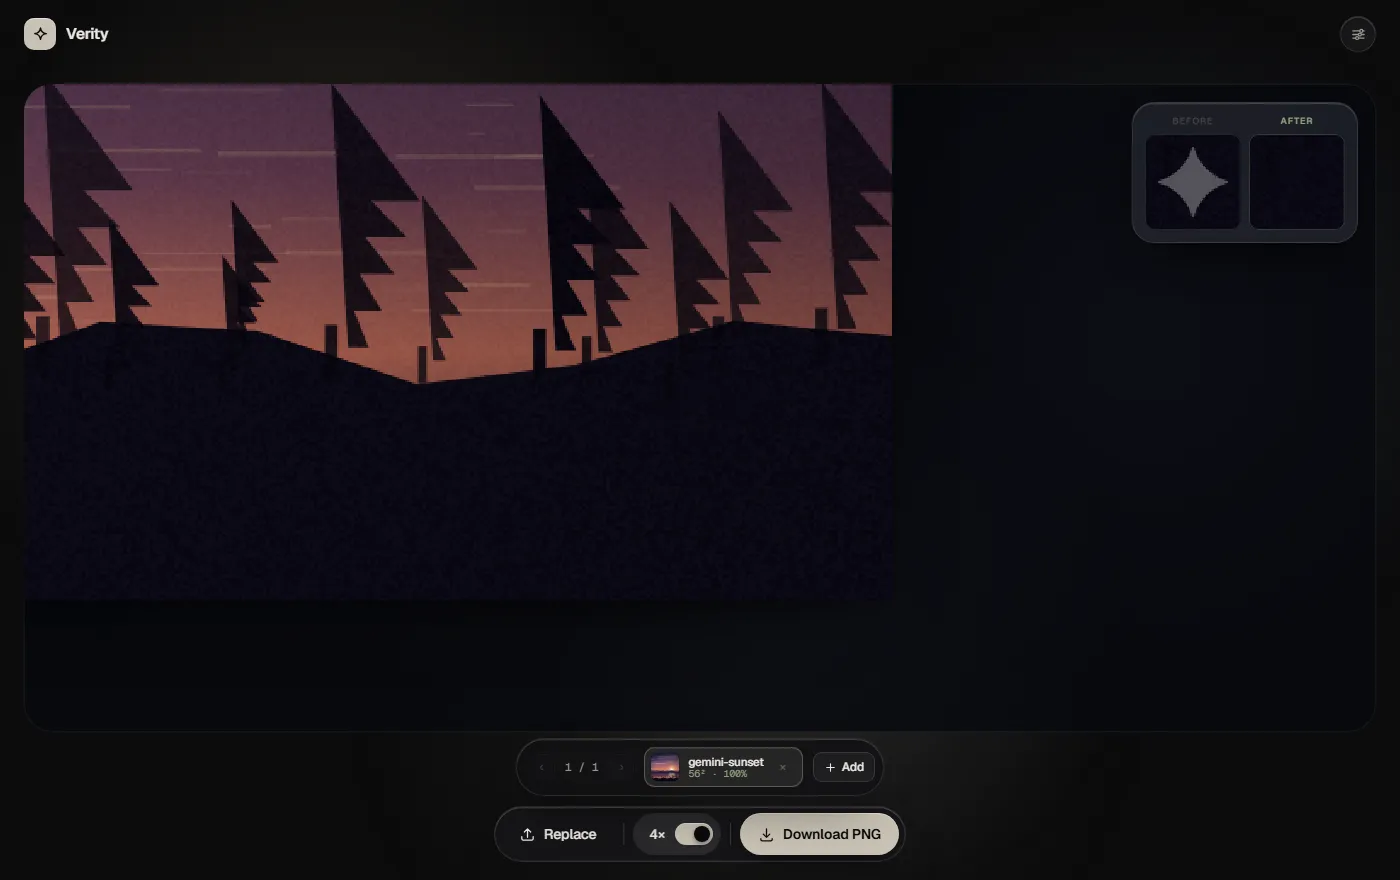
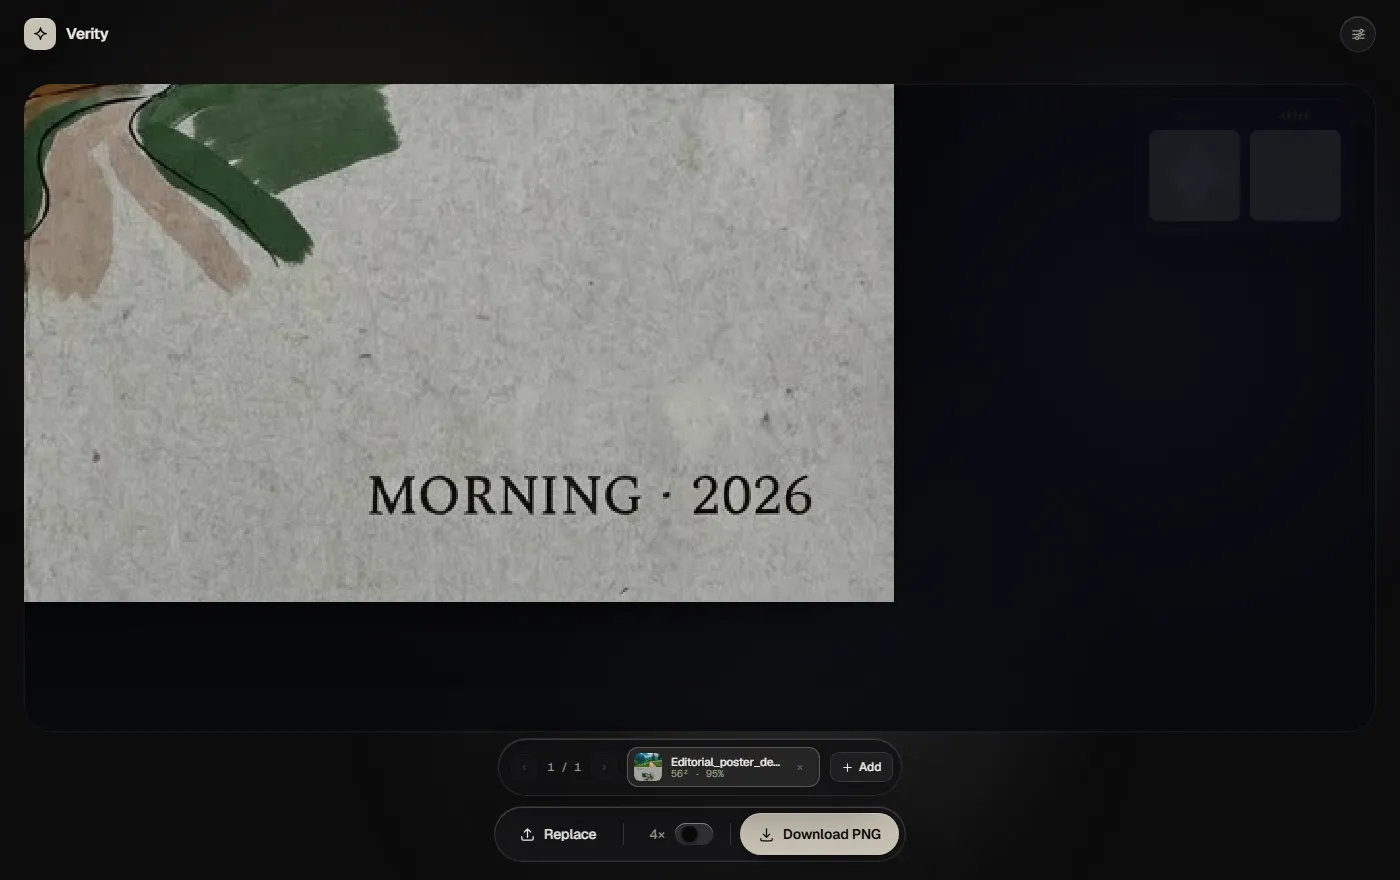
README: real Gemini screenshots — hero, 4x proof on the poster, batch of 6, mobile

diff --git a/README.md b/README.md
@@ -1,6 +1,8 @@
 <div align="center">
-  <img src="docs/hero.webp" alt="Verity — Lossless Gemini Watermark Remover" width="880" />
+  <img src="docs/hero.webp" alt="Verity restoring a real Gemini-generated image — the corner watermark is gone" width="880" />
 </div>
+
+<p align="center"><sub>A real Gemini export (1376×768), restored in the browser. The ✦ in the bottom-right corner is gone — and nothing else moved.</sub></p>
 
 <h1 align="center">Verity</h1>
 <p align="center">
@@ -69,13 +71,25 @@ The 4× loupe is the engine's own before/after inspector. Turn it on with the
   <img src="docs/before-after.webp" alt="4x loupe showing the Gemini sparkle in Before and a clean corner in After" width="880" />
 </div>
 
-<p align="center"><sub>Left: the ✦ before restoration. Right: the same pixels after — no smear, no blur, no crop.</sub></p>
+<p align="center"><sub>A real Gemini poster export. Left: the ✦ sitting directly on top of the concrete grain and the type. Right: the same pixels after restoration — the texture is intact and <em>MORNING · 2026</em> is still perfectly legible. An inpainting model would have turned that whole corner into mush.</sub></p>
+
+### Bulk
+
+Drop in as many as you like. Verity auto-locks the stamp on each one, and
+exports the whole batch as a single ZIP of lossless PNGs.
+
+<div align="center">
+  <img src="docs/batch.webp" alt="Six Gemini images queued in the batch bar with a Download ZIP button" width="880" />
+</div>
+
+<p align="center"><sub>Six real Gemini exports in one queue — 1024², 2048², 896×1200, 768×1376 and 1376×768. Each one was calibrated independently.</sub></p>
 
 ## Features
 
 | Feature | What you get |
 |---|---|
 | **~99.9% untouched pixels** | Bit&#8209;for&#8209;bit identical outside the watermark |
+| **Verified on real exports** | Six genuine Gemini files — 1024², 2048², 896×1200, 768×1376, 1376×768, 1200×896 — all six restored clean |
 | **Zero line blur** | Detail behind the stamp stays sharp — no AI smudge |
 | **1K & 2K calibrated** | Native 48 px and 96 px stamps, all aspect ratios |
 | **Bulk processing** | Drag in dozens of images, get one ZIP |
@@ -92,7 +106,7 @@ The 4× loupe is the engine's own before/after inspector. Turn it on with the
   <img src="docs/mobile.webp" alt="Verity on a mobile phone" width="300" />
 </div>
 
-<p align="center"><sub>The dock and batch bar are content&#8209;sized and centred, so they hug their content and can never overflow the viewport.</sub></p>
+<p align="center"><sub>A 768×1376 Gemini export, restored on a phone. The dock and batch bar are content&#8209;sized and centred, so they hug their content and can never overflow the viewport.</sub></p>
 
 ## What it uses
 
